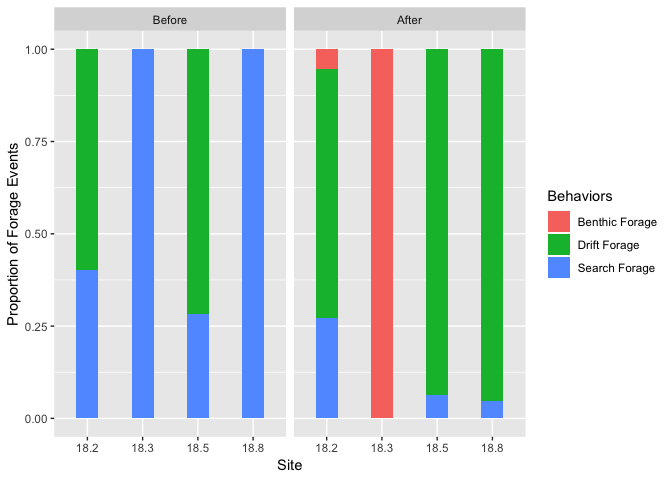
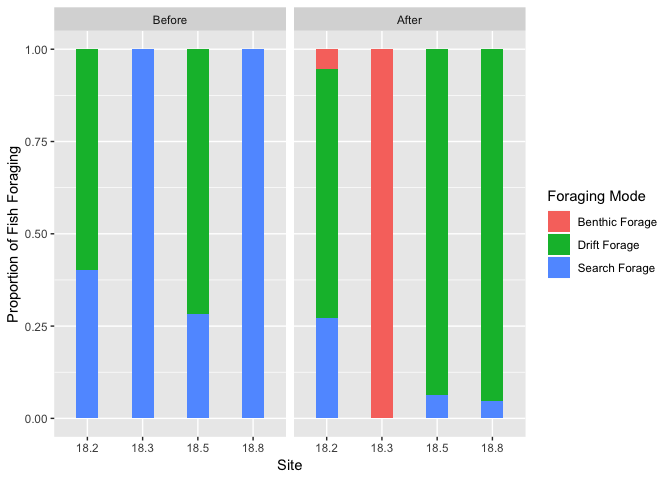
volume with only foraging modes

Changed region(s): [[0.0, 0.2812, 0.0312, 0.6875], [0.8125, 0.375, 0.9688, 0.4375]]

diff --git a/SRF-VidSync.md b/SRF-VidSync.md
@@ -29,13 +29,13 @@ library(readr)
 library(tidyverse)
 ```
 
-    ## ── Attaching packages ─────────────────────────────────────── tidyverse 1.2.1 ──
+    ## ── Attaching packages ────────────────────────────────────────────────────────────────────────────────── tidyverse 1.2.1 ──
 
     ## ✔ ggplot2 3.0.0     ✔ purrr   0.2.5
     ## ✔ tibble  1.4.2     ✔ stringr 1.3.1
     ## ✔ tidyr   0.8.1     ✔ forcats 0.3.0
 
-    ## ── Conflicts ────────────────────────────────────────── tidyverse_conflicts() ──
+    ## ── Conflicts ───────────────────────────────────────────────────────────────────────────────────── tidyverse_conflicts() ──
     ## ✖ dplyr::filter() masks stats::filter()
     ## ✖ dplyr::lag()    masks stats::lag()
 
@@ -79,7 +79,28 @@ library(zoo)
 
 ``` r
 library(stringr)
+library(data.table)
 ```
+
+    ## 
+    ## Attaching package: 'data.table'
+
+    ## The following object is masked from 'package:magic':
+    ## 
+    ##     shift
+
+    ## The following objects are masked from 'package:lubridate':
+    ## 
+    ##     hour, isoweek, mday, minute, month, quarter, second, wday,
+    ##     week, yday, year
+
+    ## The following object is masked from 'package:purrr':
+    ## 
+    ##     transpose
+
+    ## The following objects are masked from 'package:dplyr':
+    ## 
+    ##     between, first, last
 
 VidSync Data
 ============
@@ -838,21 +859,23 @@ Forage_Types <- Behavior_Types_Dataset %>%
   count(Behaviors) %>% 
   filter(!Behaviors == "Attack") %>% 
   filter(!Behaviors == "Movement") %>% 
-  filter(!Behaviors == "Surface Strike")
+  filter(!Behaviors == "Surface Strike") %>% 
+  setnames(old = "Behaviors", new = "Foraging_Mode")
 
 Normalized_Forage_Types <- Forage_Types %>% 
   group_by(site, sample_event) %>% 
-  mutate(forage_type_percent = n/sum(n))
+  mutate(forage_mode_percent = n/sum(n))
 
 Forage_Types$sample_event1 <- factor(Forage_Types$sample_event, levels = c("Before", "After"))
 Normalized_Forage_Types$sample_event2 <- factor(Normalized_Forage_Types$sample_event, levels = c("Before", "After"))
 
 Forage_Types_Plot <- 
-  ggplot(Forage_Types, aes(x = site, y = n, fill = Behaviors)) +
+  ggplot(Forage_Types, aes(x = site, y = n, fill = Foraging_Mode)) +
   geom_col(width = 0.4) + 
   facet_grid(.~sample_event1) +
   xlab("Site") +
-  ylab("Number of Forage Events")
+  ylab("Number of Forage Events") +
+  scale_fill_discrete(name = "Foraging Mode")
 Forage_Types_Plot
 ```
 
@@ -860,10 +883,12 @@ Forage_Types_Plot
 
 ``` r
 Normalized_Forage_Types_Plot <- 
-  ggplot(Normalized_Forage_Types, aes(x = site, y = forage_type_percent, fill = Behaviors)) + geom_col(width = 0.4) + 
+  ggplot(Normalized_Forage_Types, aes(x = site, y = forage_mode_percent, fill = Foraging_Mode)) + 
+  geom_col(width = 0.4) + 
   facet_grid(.~sample_event2) +
   xlab("Site") +
-  ylab("Proportion of Forage Events")
+  ylab("Proportion of Fish Foraging") +
+  scale_fill_discrete(name = "Foraging Mode")
 Normalized_Forage_Types_Plot
 ```
 
@@ -3354,7 +3379,7 @@ str(test)
     ##   .. .. .. ..@ Volume             : num 0.00537
     ##   .. .. .. ..@ PointDensity       : num 10050413
     ##   .. .. .. ..@ Parameters         : list()
-    ##   .. .. .. ..@ RandomPoints       : num [1:53958, 1:3] 25.3 25.3 25.3 25.3 25.3 ...
+    ##   .. .. .. ..@ RandomPoints       : num [1:53958, 1:3] 25.3 25.3 25.4 25.4 25.4 ...
     ##   .. .. .. .. ..- attr(*, "dimnames")=List of 2
     ##   .. .. .. .. .. ..$ : NULL
     ##   .. .. .. .. .. ..$ : chr [1:3] "X" "Y" "Z"
@@ -3370,7 +3395,7 @@ str(test)
     ##   .. .. .. ..@ Volume             : num 0.0106
     ##   .. .. .. ..@ PointDensity       : num 5109528
     ##   .. .. .. ..@ Parameters         : list()
-    ##   .. .. .. ..@ RandomPoints       : num [1:53958, 1:3] 25.3 25.3 25.4 25.4 25.2 ...
+    ##   .. .. .. ..@ RandomPoints       : num [1:53958, 1:3] 25.3 25.4 25.4 25.4 25.3 ...
     ##   .. .. .. .. ..- attr(*, "dimnames")=List of 2
     ##   .. .. .. .. .. ..$ : NULL
     ##   .. .. .. .. .. ..$ : chr [1:3] "X" "Y" "Z"
@@ -3380,53 +3405,53 @@ str(test)
     ##   .. .. .. ..@ Method             : chr "Set operations"
     ##   .. .. .. ..@ Data               : num [1, 1:3] NaN NaN NaN
     ##   .. .. .. ..@ Dimensionality     : int 3
-    ##   .. .. .. ..@ Volume             : num 0.00286
-    ##   .. .. .. ..@ PointDensity       : num 10357076
+    ##   .. .. .. ..@ Volume             : num 0.00279
+    ##   .. .. .. ..@ PointDensity       : num 10466636
     ##   .. .. .. ..@ Parameters         : list()
-    ##   .. .. .. ..@ RandomPoints       : num [1:29585, 1:3] 25.2 25.4 25.4 25.2 25.4 ...
+    ##   .. .. .. ..@ RandomPoints       : num [1:29224, 1:3] 25.4 25.3 25.3 25.3 25.3 ...
     ##   .. .. .. .. ..- attr(*, "dimnames")=List of 2
     ##   .. .. .. .. .. ..$ : NULL
     ##   .. .. .. .. .. ..$ : chr [1:3] "X" "Y" "Z"
-    ##   .. .. .. ..@ ValueAtRandomPoints: num [1:29585] 1 1 1 1 1 1 1 1 1 1 ...
+    ##   .. .. .. ..@ ValueAtRandomPoints: num [1:29224] 1 1 1 1 1 1 1 1 1 1 ...
     ##   .. ..$ Union       :Formal class 'Hypervolume' [package "hypervolume"] with 9 slots
     ##   .. .. .. ..@ Name               : chr "Union of (Convex expectation for structure(c(25.511185, 25.525606, 25.346043, 25.281542, 25.349791, , Convex ex"| __truncated__
     ##   .. .. .. ..@ Method             : chr "Set operations"
     ##   .. .. .. ..@ Data               : num [1, 1:3] NaN NaN NaN
     ##   .. .. .. ..@ Dimensionality     : int 3
     ##   .. .. .. ..@ Volume             : num 0.0131
-    ##   .. .. .. ..@ PointDensity       : num 5079286
+    ##   .. .. .. ..@ PointDensity       : num 5056826
     ##   .. .. .. ..@ Parameters         : list()
-    ##   .. .. .. ..@ RandomPoints       : num [1:66399, 1:3] 25.3 25.4 25.3 25.3 25.1 ...
+    ##   .. .. .. ..@ RandomPoints       : num [1:66431, 1:3] 25.2 25.5 25.4 25.2 25.2 ...
     ##   .. .. .. .. ..- attr(*, "dimnames")=List of 2
     ##   .. .. .. .. .. ..$ : NULL
     ##   .. .. .. .. .. ..$ : chr [1:3] "X" "Y" "Z"
-    ##   .. .. .. ..@ ValueAtRandomPoints: num [1:66399] 1 1 1 1 1 1 1 1 1 1 ...
+    ##   .. .. .. ..@ ValueAtRandomPoints: num [1:66431] 1 1 1 1 1 1 1 1 1 1 ...
     ##   .. ..$ Unique_1    :Formal class 'Hypervolume' [package "hypervolume"] with 9 slots
     ##   .. .. .. ..@ Name               : chr "Unique component of (Convex expectation for structure(c(25.511185, 25.525606, 25.346043, 25.281542, 25.349791, "| __truncated__
     ##   .. .. .. ..@ Method             : chr "Set operations"
     ##   .. .. .. ..@ Data               : num [1, 1:3] NaN NaN NaN
     ##   .. .. .. ..@ Dimensionality     : int 3
-    ##   .. .. .. ..@ Volume             : num 0.00251
+    ##   .. .. .. ..@ Volume             : num 0.00258
     ##   .. .. .. ..@ PointDensity       : num 5109397
     ##   .. .. .. ..@ Parameters         : list()
-    ##   .. .. .. ..@ RandomPoints       : num [1:12836, 1:3] 25.3 25.4 25.3 25.3 25.1 ...
+    ##   .. .. .. ..@ RandomPoints       : num [1:13165, 1:3] 25.2 25.5 25.4 25.2 25.2 ...
     ##   .. .. .. .. ..- attr(*, "dimnames")=List of 2
     ##   .. .. .. .. .. ..$ : NULL
     ##   .. .. .. .. .. ..$ : chr [1:3] "X" "Y" "Z"
-    ##   .. .. .. ..@ ValueAtRandomPoints: num [1:12836] 1 1 1 1 1 1 1 1 1 1 ...
+    ##   .. .. .. ..@ ValueAtRandomPoints: num [1:13165] 1 1 1 1 1 1 1 1 1 1 ...
     ##   .. ..$ Unique_2    :Formal class 'Hypervolume' [package "hypervolume"] with 9 slots
     ##   .. .. .. ..@ Name               : chr "Unique component of (Convex expectation for structure(c(25.059107, 25.185759, 25.236544, 25.3286, 25.387087, ) "| __truncated__
     ##   .. .. .. ..@ Method             : chr "Set operations"
     ##   .. .. .. ..@ Data               : num [1, 1:3] NaN NaN NaN
     ##   .. .. .. ..@ Dimensionality     : int 3
-    ##   .. .. .. ..@ Volume             : num 0.0077
-    ##   .. .. .. ..@ PointDensity       : num 5058302
+    ##   .. .. .. ..@ Volume             : num 0.00777
+    ##   .. .. .. ..@ PointDensity       : num 5020493
     ##   .. .. .. ..@ Parameters         : list()
-    ##   .. .. .. ..@ RandomPoints       : num [1:38968, 1:3] 25.3 25.4 25.4 25.2 25.4 ...
+    ##   .. .. .. ..@ RandomPoints       : num [1:39000, 1:3] 25.4 25.2 25.3 25.3 25.3 ...
     ##   .. .. .. .. ..- attr(*, "dimnames")=List of 2
     ##   .. .. .. .. .. ..$ : NULL
     ##   .. .. .. .. .. ..$ : chr [1:3] "X" "Y" "Z"
-    ##   .. .. .. ..@ ValueAtRandomPoints: num [1:38968] 1 1 1 1 1 1 1 1 1 1 ...
+    ##   .. .. .. ..@ ValueAtRandomPoints: num [1:39000] 1 1 1 1 1 1 1 1 1 1 ...
 
 ``` r
 myvol <- test@HVList$Intersection@Volume
